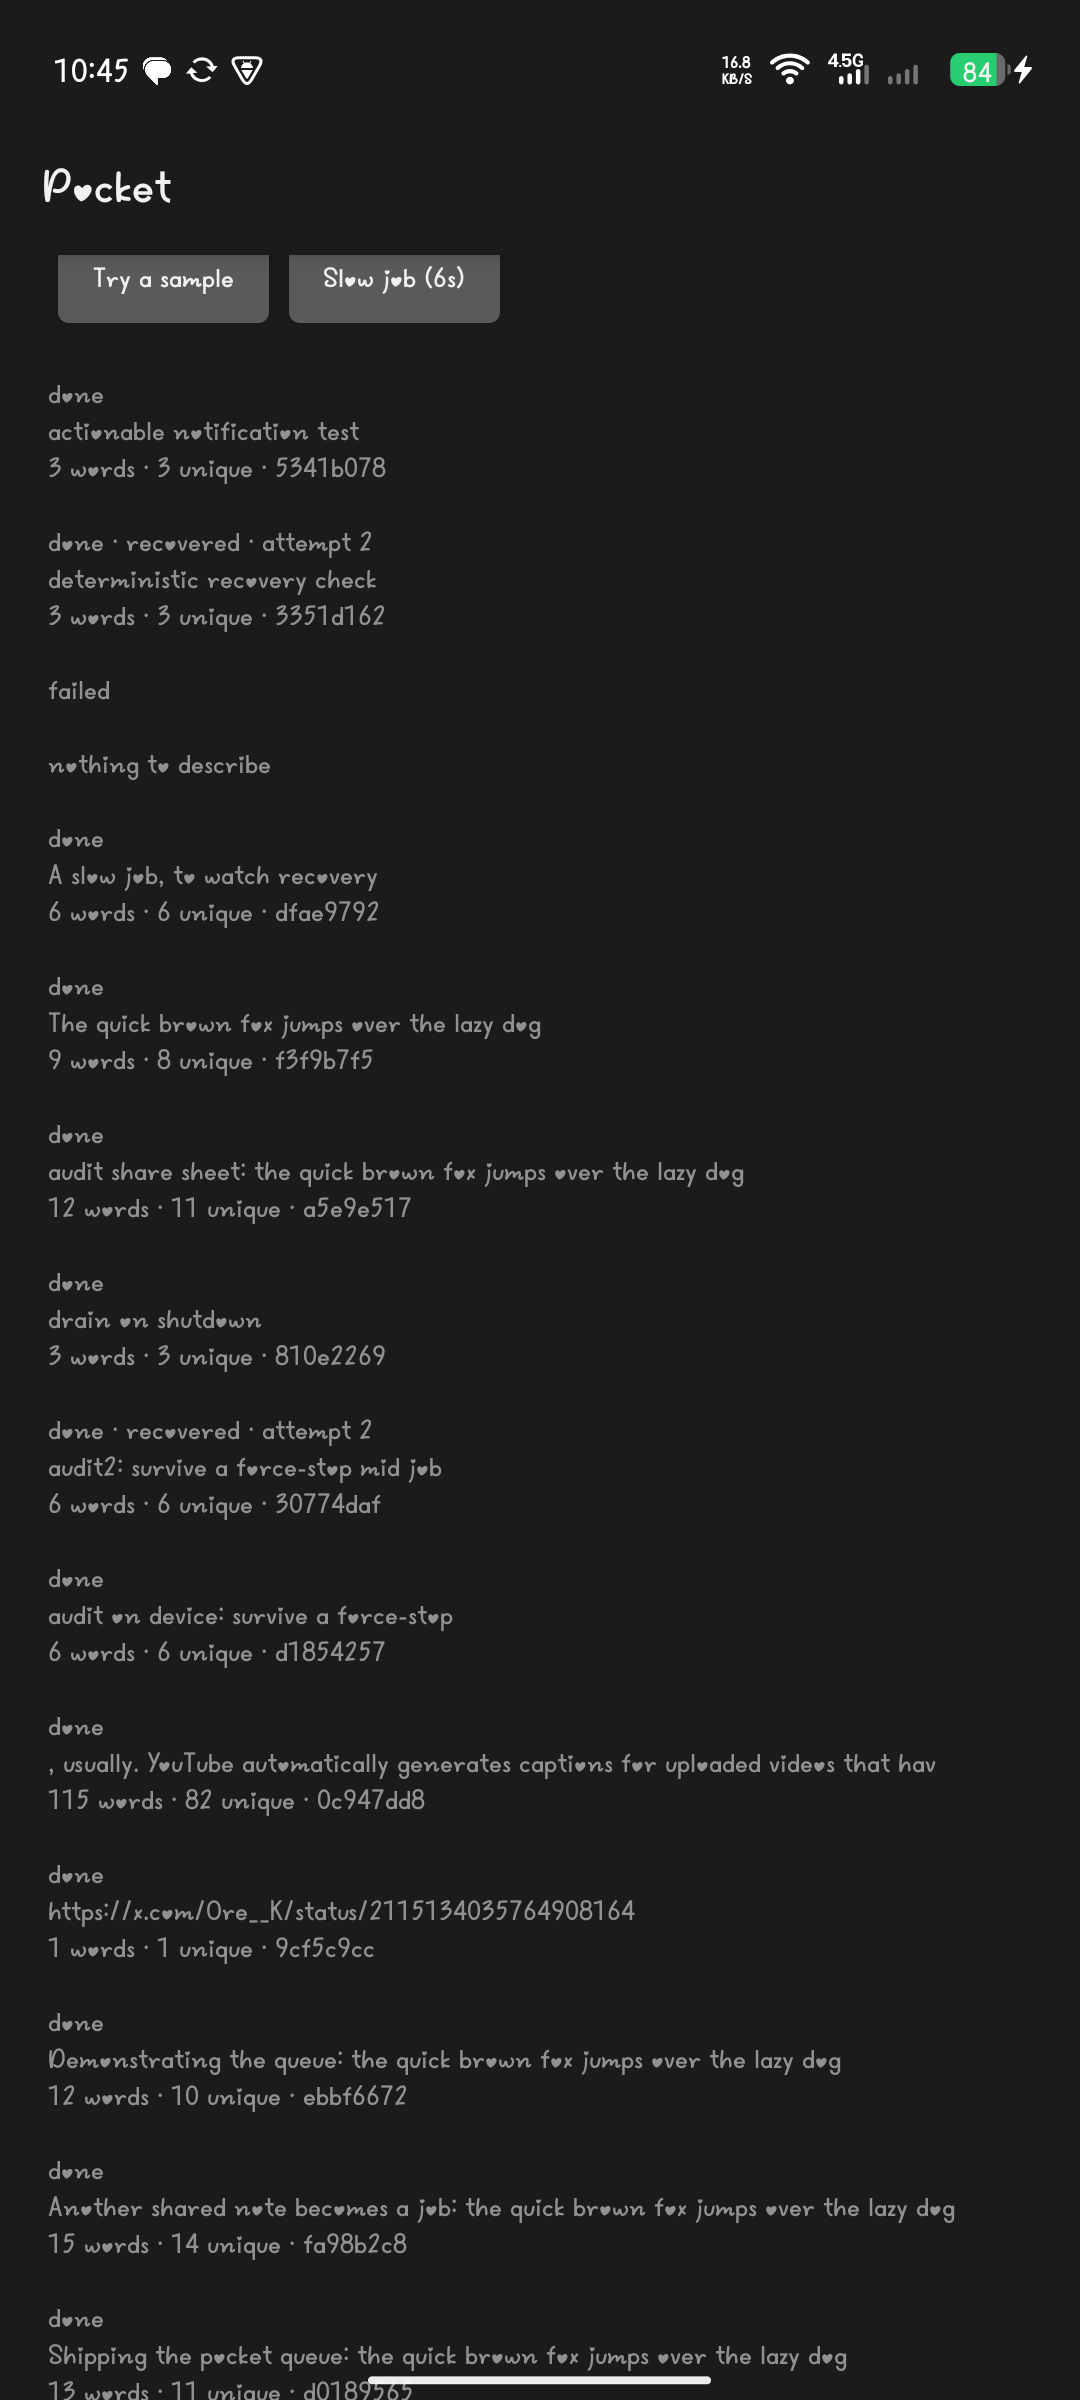
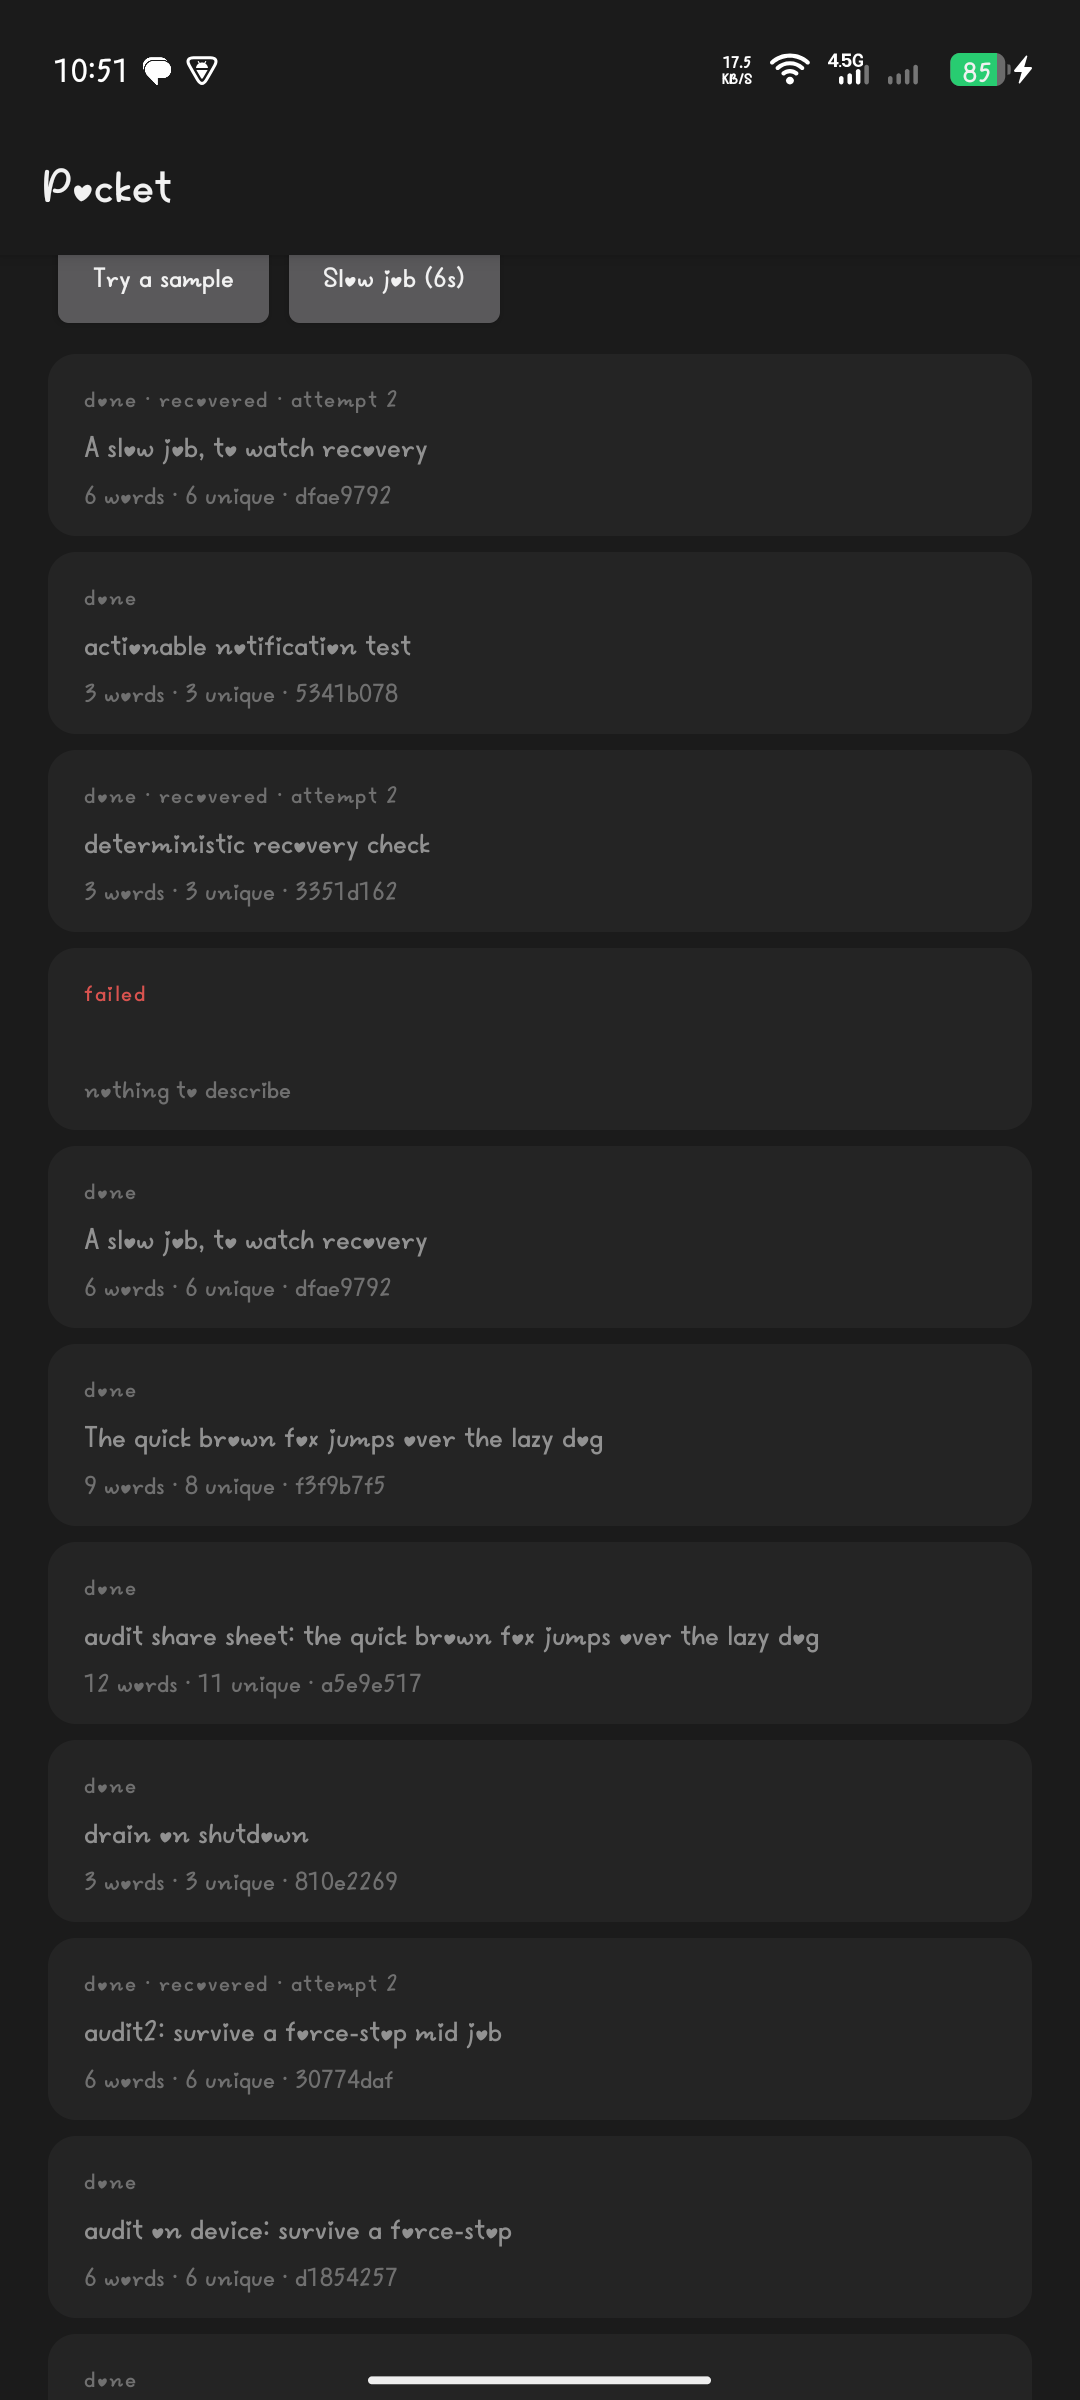
Lay the jobs out as cards
Each row is a card with the status on top, the text below, and the result dimmed
underneath, so three states read at a glance: done, recovered, failed.

diff --git a/android/app/src/main/java/dev/kouragita/pocket/MainActivity.kt b/android/app/src/main/java/dev/kouragita/pocket/MainActivity.kt
@@ -5,6 +5,8 @@ import android.app.Activity
 import android.app.AlertDialog
 import android.content.Intent
 import android.content.pm.PackageManager
+import android.graphics.drawable.GradientDrawable
+import android.view.View
 import android.os.Build
 import android.os.Bundle
 import android.os.Handler
@@ -160,18 +162,47 @@ class MainActivity : Activity() {
         current.forEach { jobs.addView(row(it)) }
     }
 
-    private fun row(job: PocketClient.Job): TextView = TextView(this).apply {
-        text = buildString {
-            append(job.statusLine)
-            append("\n")
-            append(job.text.take(80))
-            val detail = job.detail
-            if (detail.isNotEmpty()) append("\n$detail")
+    private fun row(job: PocketClient.Job): View {
+        val card = LinearLayout(this).apply {
+            orientation = LinearLayout.VERTICAL
+            background = GradientDrawable().apply {
+                cornerRadius = 28f
+                setColor(0x14888888)
+            }
+            setPadding(36, 24, 36, 24)
+            layoutParams = LinearLayout.LayoutParams(
+                LinearLayout.LayoutParams.MATCH_PARENT,
+                LinearLayout.LayoutParams.WRAP_CONTENT,
+            ).apply { bottomMargin = 16 }
+            isClickable = true
+            setOnClickListener { showDetail(job) }
         }
-        textSize = 14f
-        setPadding(0, 16, 0, 16)
-        setOnClickListener { showDetail(job) }
+
+        card.addView(TextView(this).apply {
+            text = job.statusLine
+            textSize = 12f
+            letterSpacing = 0.06f
+            if (job.status == "failed") {
+                setTextColor(0xFFD9534F.toInt())
+            } else {
+                alpha = 0.7f
+            }
+        })
+        card.addView(TextView(this).apply {
+            text = job.text.take(120)
+            textSize = 15f
+            setPadding(0, 6, 0, 6)
+        })
+        job.detail.takeIf { it.isNotEmpty() }?.let { detail ->
+            card.addView(TextView(this).apply {
+                text = detail
+                textSize = 13f
+                alpha = 0.7f
+            })
+        }
+        return card
     }
+
 
     private fun showDetail(job: PocketClient.Job) {
         val outcome = job.outcome
